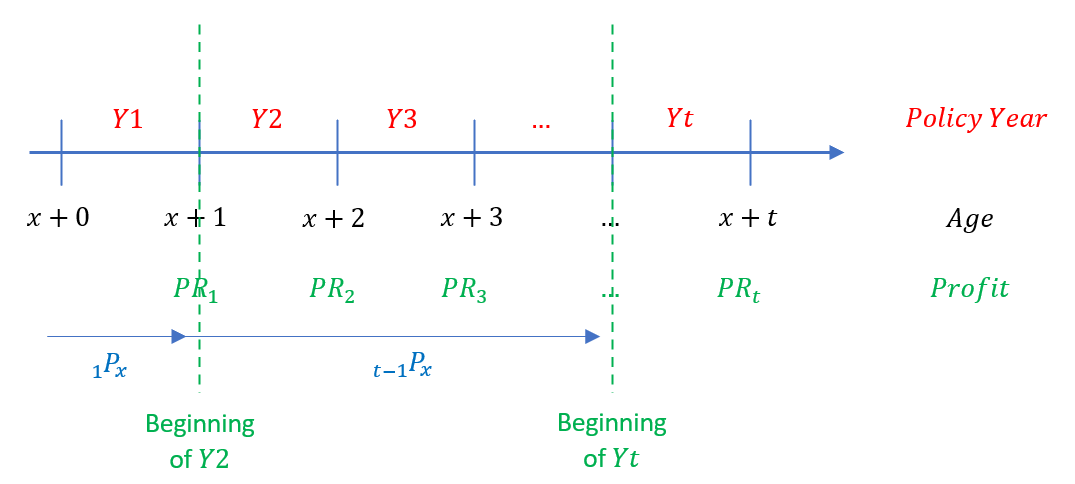
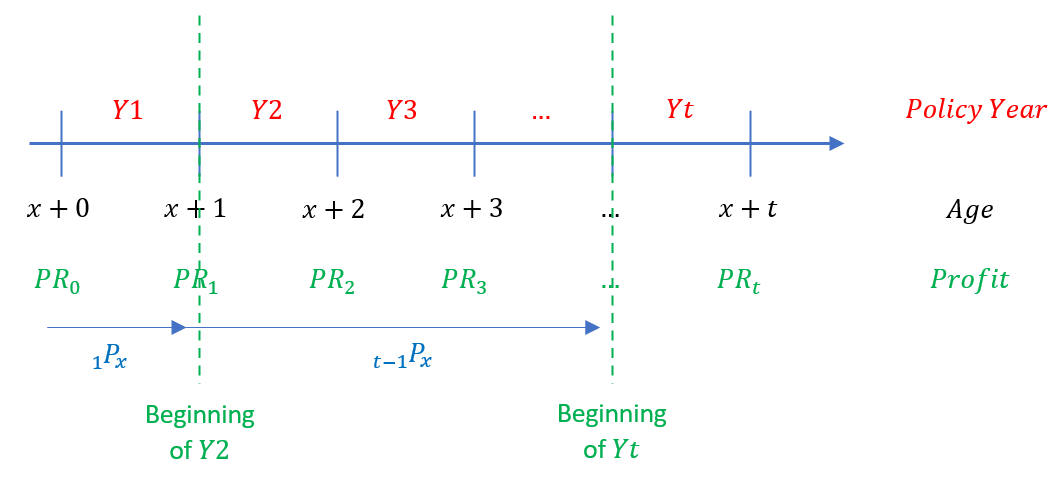
Saturday 22/06/2024 09:50 Updates

diff --git a/docs/2. Actuarial Mathematics/3. ASA-ALTAM/5. Profit Testing.md b/docs/2. Actuarial Mathematics/3. ASA-ALTAM/5. Profit Testing.md
@@ -50,7 +50,7 @@ Notice that the expenses above were listed as maintenance expenses. This is beca
 
     In practice, acquisition expenses are usually grouped with the other cashflows that occur in the first policy year. However, the above is assumed for the purposes of this exam.
 
-## **Profit**
+## **Emerging Profit**
 
 For policyholders who **die** during the period, a **claim** must be paid out to them. However, the insurer does not need to fund the claim entirely from cashflows during the period; they have a **reserve** that was previously built up.
 
@@ -80,6 +80,10 @@ $$
 
     <!-- Obtained from Coaching Actuaries -->
     ![Special Reserves](Assets/5.%20Profit%20Testing.md/Special_Reserves.png){.center}
+
+!!! Info
+
+    Profit is often referred to as the profit that **emerges or arises** from that period, as it occurs at the **end of the period** as a combination of all other cashflows that occurred in that period.
 
 ## **Profit Basis**
 
@@ -118,7 +122,7 @@ $$
 
     The profit vector includes **policy year 0**, which is always just the pre-contract expenses.
 
-For a typical life insurance contract, there is a typically a **negative profit** in the first year (new busines strain) due to the high cost of setting up the policy (expenses and reserves). Following that, **small magnitudes of positive profits** will emerge over its lifetime. 
+For a typical life insurance contract, there is a typically a **negative profit** in the first year (new busines strain) due to the high cost of setting up the policy (expenses and reserves). Following that, **small magnitudes of positive profits** will emerge over its lifetime.
 
 !!! Note
 
@@ -128,116 +132,115 @@ For a typical life insurance contract, there is a typically a **negative profit*
 
 ## **Profit Signature**
 
-The expression for profit above is from a **yearly perspective**. It implicitly assumes that the policyholder has **already survived till that period**, thus only the probabilities of dying in *that* period are considered.
+Consider the expression for profit - an implicit assumption it makes is that the policyholder is **alive at the start of the period**. However, this means that each term in the profit vector is on a different basis and thus cannot be analyzed together.
 
+To account for this, each element can be adjusted by accounting for the **probabilities of survival to the start of each period**. This converts each element into the **unconditional profit** that arises from the period, which can be analyzed together.
 
+The resulting vector is known as the **Profit Signature** of the policy:
 
+* **Profit Vector**: Profit at the **end** of period, assuming the policy is **in-force at the start of the period**
+* **Profit Signature**: Profit at the **end** of period, assuming that the policy is **in-force at issue**
 
+!!! Note
 
-However, the expected profit for each policy year makes the implicit assumption that the **policyholder survives till the BEGINNING of that policy year**. Thus, every element of the profit vector is calculated based off varying assumptions.
-
-This is not very useful and thus can be corrected by adjusting the profit vector with the probability of survival till the *beginning* each policy year. The resulting vector is the **unconditional profit**, known as the **Profit Signature**.
+    This is why the terms in the profit signature are sometimes also referred to as the **Profit at Issue**.
 
 $$
 \begin{aligned}
-    \Pi
-    &=
+    \boldsymbol{\pi}
+    =
     \begin{pmatrix}
-        {}_{0}p_x \\
-        {}_{1}p_x \\
-        \vdots \\
-        {}_{t-1}p_x
+        \text{Unconditional Profit}_{0} \\
+        \text{Unconditional Profit}_{1} \\
+        \vdots
+        \text{Unconditional Profit}_{t} \\
     \end{pmatrix}
-    *
+    =
     \begin{pmatrix}
-        \text{PR}_1 \\
-        \text{PR}_2 \\
+        {}_{0}p_{x} \cdot \text{PR}_{0} \\
+        {}_{1}p_{x} \cdot \text{PR}_{1} \\
         \vdots \\
-        \text{PR}_t
+        {}_{t-1}p_{x} \cdot \text{PR}_{t}
     \end{pmatrix}
 \end{aligned}
 $$
 
-## **Applications**
+!!! Tip
 
-### **Pricing**
-
-### **Reserving**
-
-### **Attribution**
-
-## **Other Profit Measures**
-
-
-
-> Recall that ${}_{0}p_x = 1$.
+    Recall that ${}_{0}p_x = 1$, as it represents the probability of surviving till **this instant**!
 
 <!-- Self Made -->
 ![Profit Signature](Assets/5.%20Profit%20Testing.md/Profit%20Signature.png){.center}
 
-### **Profit Measures**
+## **Applications**
 
-Using the profit signature, insurers can gauge the profitability of the products using a variety of metrics.
+### **Profitability Metrics**
 
-Apart from calculation, it is important to know how to explain how a change in any of the parameters affect these metrics.
+Using the profit cashflows above, insurers can gauge the **profitability** of the policy based on different metrics.
 
-#### **Net Present Value**
-
-**Net Present Value** (NPV) follows its finance definition and is the **excess of PV Inflows over Outflows**. In this context, it is the **sum of the present values** of all elements within the profit signature:
+Firstly, the **Net Present Value** (NPV). It is the **EPV of the profits**, discounted using a specified **Risk Discount Rate**:
 
 $$
 \begin{aligned}
     \text{NPV}
-    &= \left(v^1 \quad v^2 \quad \dots \quad v^t \right) \cdot \begin{pmatrix} \Pi_1 \\ \Pi_2 \\ \vdots \\ \Pi_t \end{pmatrix} \\
-    &= v^1 \cdot \Pi_1 + v^2 \cdot \Pi_2 + \dots + v^t \cdot \Pi_t
+    &= \sum^{t}_{0} v^{t} \cdot \text{Unconditional Profit}_{t} \\
+    &= 1 \cdot \text{Unconditional Profit}_{0} + v^{1} \cdot \text{Unconditional Profit}_{1} + \dots 
 \end{aligned}
 $$
 
-!!! Warning "Net *Expected* Present Value"
+!!! Note
 
-    Note that the NPV is calculated based off the profit signature, NOT the profit vector. Thus, it is more appropriately called the **Net Expected Present Value**, as survival probabilities are taken into account as well.
+    The Risk Discount Rate is also sometimes referred to as the **Hurdle Rate**. They represent the return that an investor expects to receive based on the risk profile of the business. It **can be different** from the interest rates used for reserving or profit testing.
 
-The interest rate used to discount the cashflows is known as the **Discount Rate**, and is usually different from the earned interest rate or the one used in pricing/reserving.
+Next, the **Internal Rate of Return** (IRR). It is the **Risk Discount Rate** that will cause the NPV to be 0:
 
-#### **Internal Rate of Return**
-
-The **Internal Rate of Return** (IRR) is the **Discount Rate** that will result in an **NPV of 0**:
 
 $$
     \text{NPV}_\text{IRR} = 0
 $$
 
-The IRR cannot be calculated through an equation and must be solved using numerical methods. However, it can also be calculated using the **cashflow function** in most financial calculators.
+!!! Warning
 
-#### **Discounted Payback Period**
+    IRR CANNOT be calcualted via an equation and must be solved using numerical methods or a financial calculator.
 
-The **Discounted Payback Period** (DPP) is the **earliest time** in the contract which the **NPV becomes positive**:
-
-$$
-    \text{DPP} = min [t: NPV(t) > 0]
-$$
-
-It is best calculated by incrementally calculating the NPV at various policy years, stopping when the NPV becomes positive.
-
-#### **Profit Margin**
-
-The **Profit Margin** ($\pi$) is the **ratio** of the NPV to the EPV of premiums:
+Next, is the **Discounted Payback Period** (DPP). It is the **earliest** period where the **partial NPV becomes positive**:
 
 $$
-    \pi = \frac{\text{NPV}}{\text{EPV Premiums}}
+    \text{DPP} = \min [t: \text{NPV}_{t} > 0]
 $$
 
-Note that the EPV of premiums are discounted using the **same interest as the NPV**.
+!!! Note
 
-#### **Pricing**
+    The partial NPV is simply the NPV calculated as at a **different time point**, other than time 0. Unless otherwise stated, NPV usually refers to the NPV at issue, as described earlier.
+    
+    Thus, the DPP thus represents the time point where **all future profits are positive**.
 
-A more realistic way to price would be to consider the actual cashflows and thus pricing the policy such that the **desired profitability is achieved**. This is done by leaving the premium as a *variable* within the profit expressions and solving for it.
+Lastly, the **Profit Margin**. It is the ratio of the EPV of the profits (NPV) to that of the premiums:
 
-Alternatively, the *current* premium and profitability of the policy may be provided. In this scenario, it may be easier to consider the **change in premium** and the corresponding change in profitability instead of calculating it directly.
+$$
+\begin{aligned}
+    \text{Profit Margin}
+    &= \frac{\text{NPV}}{\text{EPV(Premiums)}} \\
+    &= \frac{\text{NPV (Unconditional Profit)}}{\text{NPV(Premiums)}}
+\end{aligned}
+$$
 
-#### **Reserving**
+!!! Warning
 
-Insurers may want to set reserves such that they **avoid negative profits** throughout the lifetime of the policy. This is done by setting reserves such that the **profits are floored at 0**.
+    Both the NPVs must be calculated on the same basis - using the **same risk discount rate**.
+
+### **Pricing**
+
+An alternative method of pricing (compared to the equivalent principle) is to set premiums based on a **target profitability metric**. This is done by leaving the **premium component as a variable** within the profit calculation and solving for it given the desired profitability.
+
+### **Reserving**
+
+There are two considerations when analyzing profits:
+
+* **Negative profits in later years** - company recognises positive profits early on, disregarding future losses, potentially leading to **solvency issues**
+* **Negative Profits in early years** - companies want positive profits to emerge as early as possible (more profit on a discounted basis), thus they do **NOT want to hold more reserve than necessary** (which depresses profits)
+
+The above two objectives can be achieved by setting the reserves via a process known as **Zeroization**. It sets reserving in a manner that **avoids negative profits in future years** and allows **positive profits to emerge as soon as possible**.
 
 The reserves are calculated **recursively** starting from the **last policy year**:
 
@@ -265,6 +268,8 @@ After Zeroization, **recalculate the profit** for all years:
 The profits have changed because there is now a new starting reserve for the following year with negative profits due to the zeroization. This affects the amount of reserve that has to be set up at the end of the current year, resulting in a new profit.
 
 If this new profit turns out to be **negative as well**, then repeat the process once more.
+
+### **Attribution**
 
 ## **Gains by Source**
 
